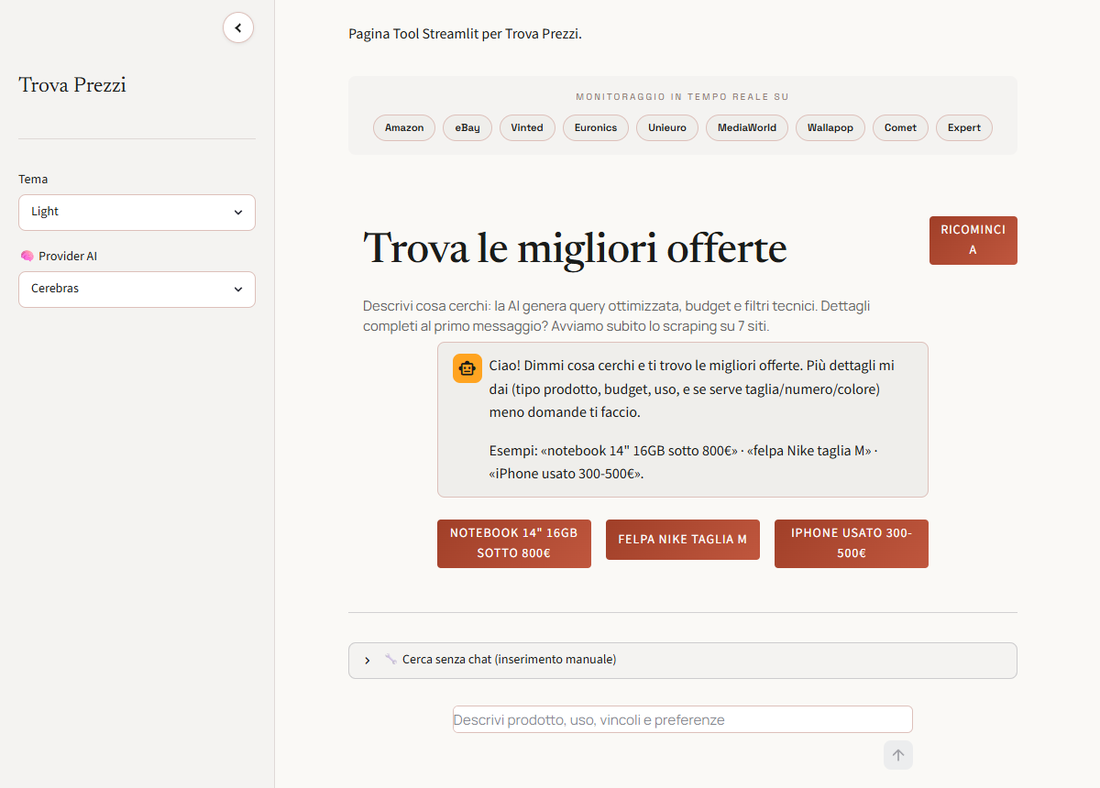
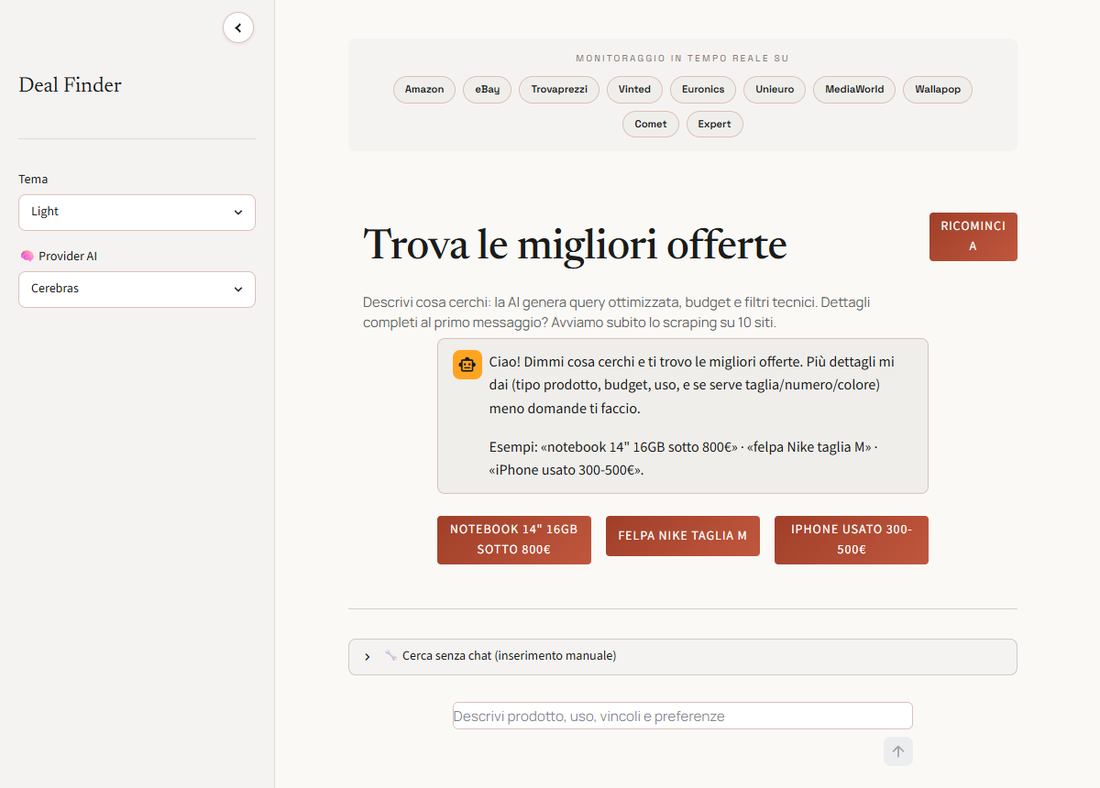
feat: rebrand to Deal Finder, aligning with the job-finder sibling
Product and repo slug both become Deal Finder / deal-finder. The scraper for the
*website* trovaprezzi.it keeps its name — it is a source, not the brand.

Three defects surfaced only by running the app and looking at it:

- app.py had a second module-level docstring left over from the monolith split.
  Streamlit's "magic" rendered that bare string literal as visible body text at
  the top of every page ("Pagina Tool Streamlit per Trova Prezzi."). It had been
  in the README screenshots for months.

- The heading claimed "scraping su 7 siti" next to 9 rendered chips. The count is
  now derived from the source list, so the two cannot drift, and Trovaprezzi was
  added to the list.

- The card CTA rendered as a blue underlined link inside the terracotta button.
  Streamlit styles links in markdown containers with `.st-emotion-cache-<hash> a`
  — specificity (0,1,1), which beats `.card-cta` (0,1,0). Fixed by raising
  specificity with our own classes rather than chasing the generated emotion hash
  (it changes between Streamlit versions) and without `!important`, which this
  stylesheet was recently cleaned of.

The argparse description carried an emoji, which made `--help` die with
UnicodeEncodeError on a default Windows console — a poor first impression for a
headline feature. The `prog` also still said `offerte_tech`.

The session-fingerprint salt in ui/auth.py was the old product slug written
inline. It is now a named constant documented as a salt, so a future rename
[…]

diff --git a/styles.css b/styles.css
@@ -1,7 +1,7 @@
 @import url('https://fonts.googleapis.com/css2?family=Manrope:wght@400;500;600;700;800&family=Newsreader:ital,opsz,wght@0,6..72,200..800;1,6..72,200..800&family=Space+Grotesk:wght@300..700&display=swap');
 
 /* ══════════════════════════════════════════════════════════════════
-   Trova Prezzi — design system unico "Editoriale terracotta"
+   Deal Finder — design system unico "Editoriale terracotta"
    Light = crema/terracotta · Dark = bruno caldo/terracotta chiara.
    Un solo :root (light) + un solo blocco [data-theme="dark"] (variabili).
    _shared.load_css() in dark disabilita :root e promuove il blocco dark.
@@ -481,6 +481,23 @@ div[data-baseweb="base-input"] > div,
     width: calc(100% - 2rem);
     margin: auto 1rem 1rem 1rem;
     min-height: 44px;
+    text-decoration: none;
+}
+
+/* Il CTA della card è un <a> dentro un markdown container, e Streamlit stila
+   quei link con una regola tipo `.st-emotion-cache-<hash> a` — specificità
+   (0,1,1), che batte `.card-cta` (0,1,0): il testo veniva reso blu e
+   sottolineato dentro il bottone terracotta.
+   Si alza la specificità con selettori NOSTRI — `.offerta-card a.card-cta` è
+   (0,2,1) — invece di inseguire l'hash emotion (che cambia a ogni versione di
+   Streamlit) e invece di usare `!important`, da cui questo CSS è stato appena
+   bonificato. */
+.offerta-card a.card-cta,
+.offerta-card a.card-cta:link,
+.offerta-card a.card-cta:visited,
+.offerta-card a.card-cta:hover,
+.offerta-card a.card-cta:active {
+    color: var(--on-primary);
     text-decoration: none;
 }
 

diff --git a/app.py b/app.py
@@ -1,4 +1,4 @@
-"""app.py — Streamlit Tool per Trova Prezzi.
+"""app.py — Streamlit Tool per Deal Finder.
 
 Le funzioni helper sono nel package `ui/`. Questo file contiene:
 - import + page config
@@ -6,7 +6,6 @@ Le funzioni helper sono nel package `ui/`. Questo file contiene:
 - orchestrazione top-level del rendering (presearch, search, comparison)
 """
 
-"""Pagina Tool Streamlit per Trova Prezzi."""
 import os
 import re
 import time
@@ -84,7 +83,7 @@ from ui.state import (
 
 
 st.set_page_config(
-    page_title="Trova Prezzi",
+    page_title="Deal Finder",
     page_icon="🔍",
     layout="wide",
     initial_sidebar_state="expanded",
@@ -119,7 +118,7 @@ if _APP_PASSWORD and not _APP_TEST_MODE:
             st.markdown(
                 "<div class='auth-gate-card'>"
                 "<p class='auth-kicker'>Accesso riservato</p>"
-                "<h2>Trova Prezzi</h2>"
+                "<h2>Deal Finder</h2>"
                 "<p class='auth-sub'>Inserisci la password per aprire la dashboard.</p>",
                 unsafe_allow_html=True,
             )
@@ -231,9 +230,12 @@ if _history:
                 _queue_price_sync(int(entry.get("budget_min", 0)), int(bmax or 800))
                 st.rerun()
 if not _presearch_done:
+    # Unica sorgente delle fonti mostrate, così il conteggio nel testo sotto non
+    # può divergere dai chip (diceva "7 siti" mentre i chip erano 9).
     sources = [
         "Amazon",
         "eBay",
+        "Trovaprezzi",
         "Vinted",
         "Euronics",
         "Unieuro",
@@ -257,7 +259,7 @@ if not _presearch_done:
         st.markdown(
             "<div class='section-heading'><h3>Trova le migliori offerte</h3>"
             "<p>Descrivi cosa cerchi: la AI genera query ottimizzata, budget e filtri tecnici. "
-            "Dettagli completi al primo messaggio? Avviamo subito lo scraping su 7 siti.</p></div>",
+            f"Dettagli completi al primo messaggio? Avviamo subito lo scraping su {len(sources)} siti.</p></div>",
             unsafe_allow_html=True,
         )
     with _chat_hdr[1]:

diff --git a/offerte/cli.py b/offerte/cli.py
@@ -11,12 +11,17 @@ from offerte.orchestrator import cerca_offerte
 
 def _build_parser() -> argparse.ArgumentParser:
     parser = argparse.ArgumentParser(
-        prog="offerte_tech",
-        description="🛒 Cerca offerte tech su amazon.it, ebay.it ed altri",
+        prog="deal-finder",
+        # Niente emoji nel testo di help: su console Windows (cp1252) argparse
+        # va in UnicodeEncodeError e `--help` esce con un traceback.
+        description="Cerca offerte tech su amazon.it, ebay.it ed altri",
         formatter_class=argparse.RawTextHelpFormatter,
         epilog=(
             "Esempi:\n"
-            '  python offerte_tech.py -q "notebook 14 pollici 16gb" -b 800 -n 10\n'
+            '  deal-finder -q "notebook 14 pollici 16gb" -b 800 -n 10\n'
+            '  deal-finder -q "ssd 1tb" --export csv\n'
+            "\n"
+            "Senza installazione (dal checkout):\n"
             '  python offerte_tech.py -q "ssd 1tb" --export csv\n'
         ),
     )

diff --git a/ui/auth.py b/ui/auth.py
@@ -28,6 +28,12 @@ except ImportError:
 
 _DATA_DIR = Path(__file__).resolve().parent.parent / "data"
 _DATA_DIR.mkdir(exist_ok=True)
+
+# Salt del fingerprint di sessione. NON è il nome del prodotto: cambiarlo
+# invalida tutti i token già in `data/auth_sessions.json` e obbliga a rifare il
+# login. Tenuto come costante separata proprio per non farlo seguire un rebrand
+# per sbaglio.
+_FINGERPRINT_SALT = "deal-finder-session-v1"
 _AUTH_SESSIONS_PATH = _DATA_DIR / "auth_sessions.json"
 
 
@@ -64,7 +70,7 @@ def _get_client_fingerprint() -> str:
     except Exception:
         pass
 
-    raw = f"{ua}|{ip_addr}|trova-prezzi-mio"
+    raw = f"{ua}|{ip_addr}|{_FINGERPRINT_SALT}"
     return hashlib.sha256(raw.encode("utf-8", errors="ignore")).hexdigest()
 
 

diff --git a/tools/build_release_zip.py b/tools/build_release_zip.py
@@ -2,7 +2,7 @@
 
 Usato sia in locale sia dalla GitHub Action `release-asset.yml`.
 Esclude file di sviluppo/runtime e mette tutto sotto una cartella radice
-`trova-prezzi-<versione>/` così che estraendo si ottenga una cartella pulita.
+`deal-finder-<versione>/` così che estraendo si ottenga una cartella pulita.
 
 Uso: python tools/build_release_zip.py <versione>   (es. v1.1.0)
 """
@@ -14,7 +14,7 @@ import sys
 import zipfile
 
 VERSION = sys.argv[1] if len(sys.argv) > 1 else "dev"
-NAME = f"trova-prezzi-{VERSION}"
+NAME = f"deal-finder-{VERSION}"
 
 EXCLUDE_DIRS = {
     ".git",

diff --git a/_shared.py b/_shared.py
@@ -35,7 +35,7 @@ def load_css(theme_mode: str = "light") -> None:
 def render_nav(active_page: str = "tool") -> None:
     """Renderizza la navigazione laterale."""
     with st.sidebar:
-        st.markdown("<div class='sidebar-brand'>Trova Prezzi</div>", unsafe_allow_html=True)
+        st.markdown("<div class='sidebar-brand'>Deal Finder</div>", unsafe_allow_html=True)
         st.markdown("---")
         render_theme_toggle()
         _render_update_control()

diff --git a/knowledge_base.py b/knowledge_base.py
@@ -1,5 +1,5 @@
 """
-knowledge_base.py — Gestione knowledge base prodotti per Trova Prezzi.
+knowledge_base.py — Gestione knowledge base prodotti per Deal Finder.
 
 - Si aggiorna automaticamente via Cerebras ogni 7 giorni (thread background).
 - Se il JSON non esiste o è scaduto viene rigenerato al primo accesso al sito.

diff --git a/updater.py b/updater.py
@@ -17,7 +17,7 @@ from collections.abc import Callable
 
 from offerte.config import VERSION
 
-_REPO = "DiegoRiccardi1234/trova-prezzi"
+_REPO = "DiegoRiccardi1234/deal-finder"
 GITHUB_API = f"https://api.github.com/repos/{_REPO}/releases/latest"
 RELEASES_URL = f"https://github.com/{_REPO}/releases/latest"
 
